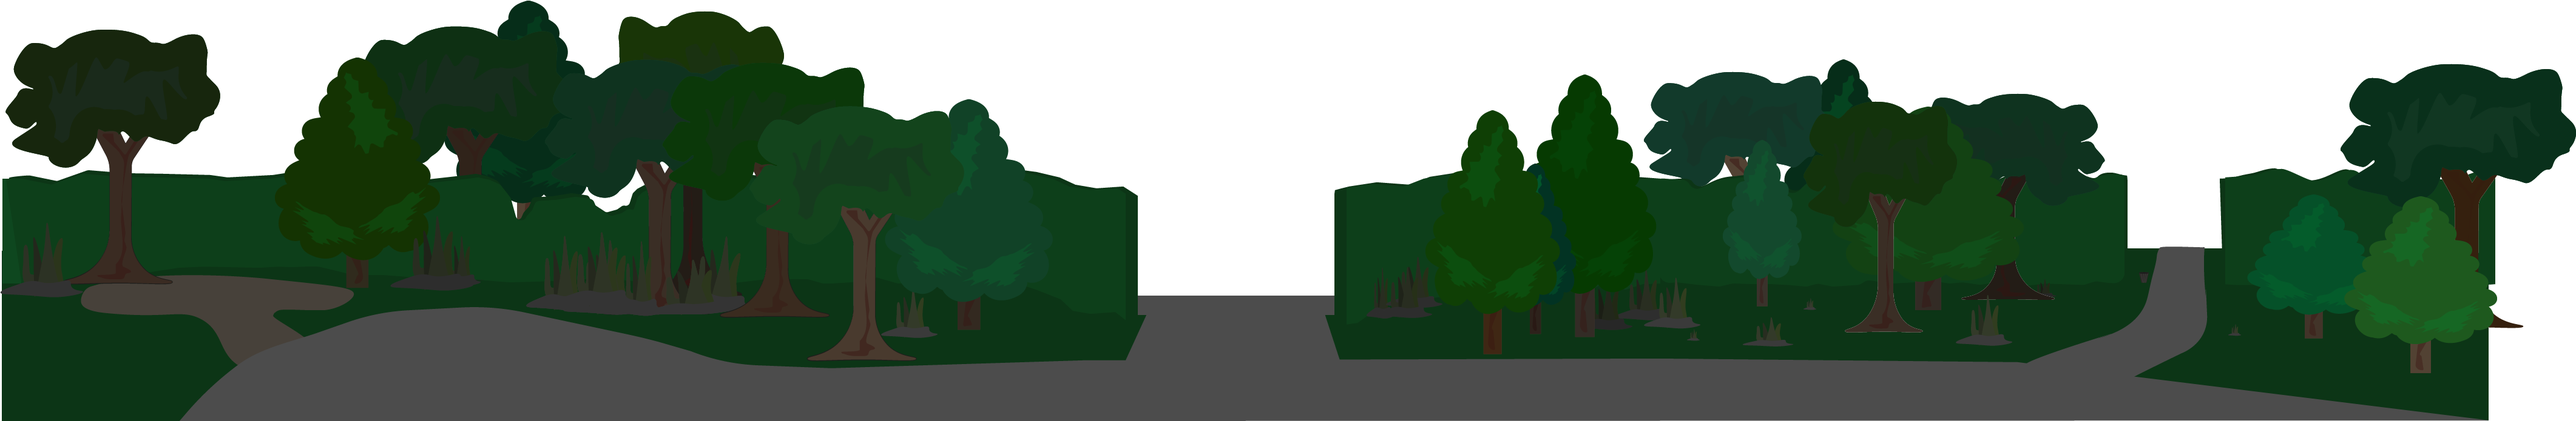
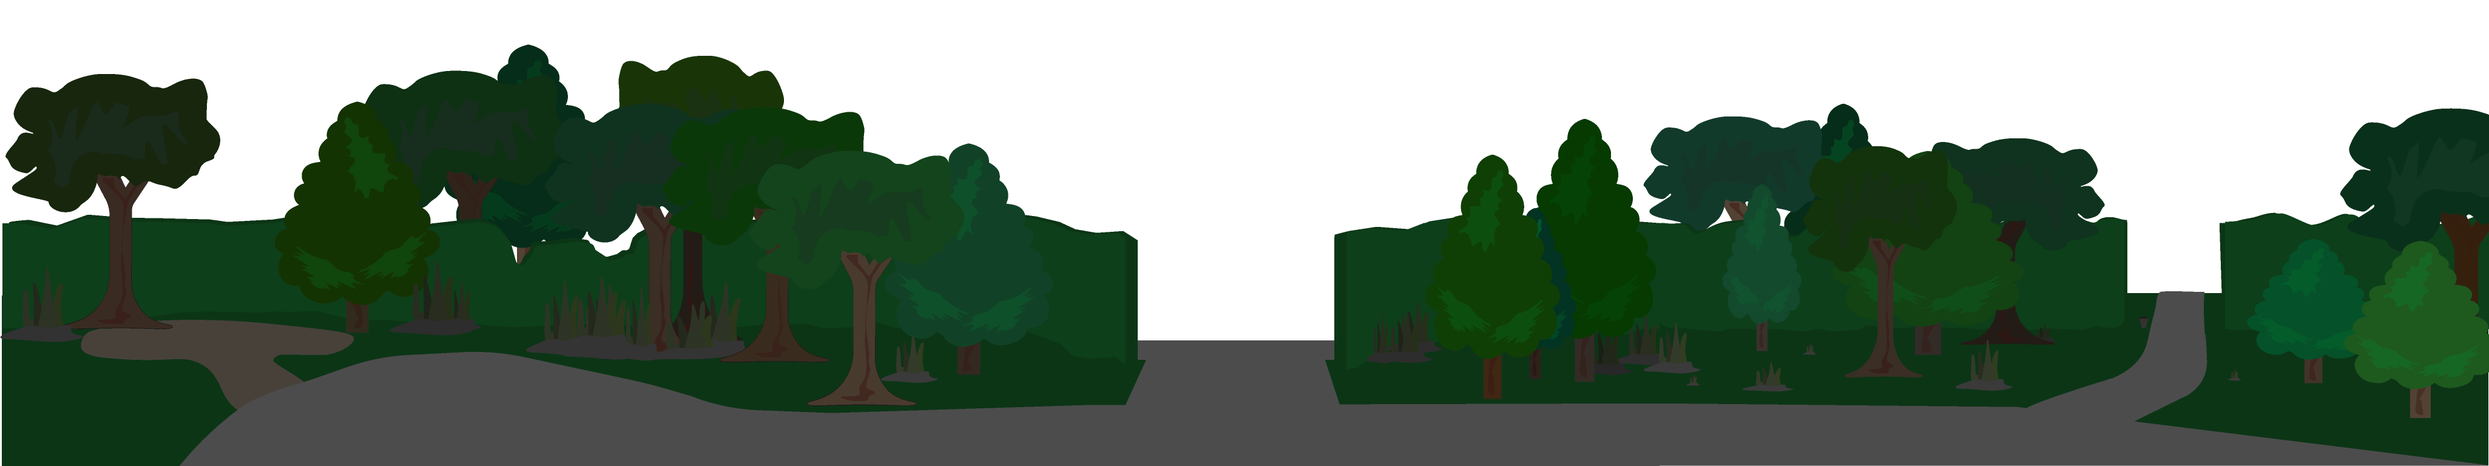
image implementation correction

diff --git a/src/sketch.js b/src/sketch.js
@@ -98,10 +98,10 @@ function setupGame () {
     let city = new InteractiveObject(773, 6, 3327, 703, cityImg);
     park.addChild(city);
 
-    let street = new InteractiveObject(1721, 320, 3327, 703, streetImg);
+    let street = new InteractiveObject(1721, 320, 2002, 289, streetImg);
     park.addChild(street);
 
-    let trees = new InteractiveObject(-1, 73, 4245, 695, treesImg);
+    let trees = new InteractiveObject(-1, 74, 4103, 695, treesImg);
     park.addChild(trees);
 
     let coffeeHouseForegnd = new InteractiveObject(0, 0, 3327, 703, coffeeHouseForegndImg);
@@ -123,13 +123,9 @@ function setupGame () {
     park.addChild(coffeeHouseLink);
     world.addChild(coffeeHouseLink);
 
-    let demoLink_park = new DemoLink();
-    park.addChild(demoLink_park);
-    world.addChild(demoLink_park);
-
-    let demoLink_bar = new DemoLink();
-    bar.addChild(demoLink_bar);
-    world.addChild(demoLink_bar);
+    let demoLink = new DemoLink();
+    park.addChild(demoLink);
+    world.addChild(demoLink);
 
     let kioskLink = new KioskLink();
     park.addChild(kioskLink);
@@ -147,9 +143,9 @@ function setupGame () {
     coffeeHouse.addChild(parkLink_coffeeHouse);
     world.addChild(parkLink_coffeeHouse);
 
-    let door_coffeeHouse = new Door();
-    coffeeHouse.addChild(door_coffeeHouse);
-    world.addChild(door_coffeeHouse);
+    // let door_coffeeHouse = new Door();
+    // coffeeHouse.addChild(door_coffeeHouse);
+    // world.addChild(door_coffeeHouse);
 
     let demoSign_demo = new DemoSign();
     demo.addChild(demoSign_demo);
@@ -159,8 +155,9 @@ function setupGame () {
     demo.addChild(demoSign_counterdemo);
     world.addChild(demoSign_counterdemo);
 
-    let flyerBox_coffeeHouse = new FlyerBox();
-    coffeeHouse.addChild()
+    // let flyerBox_coffeeHouse = new FlyerBox();
+    // coffeeHouse.addChild(flyerBox_coffeeHouse);
+    // world.addChild(flyerBox_coffeeHouse);
 
     let flyer = new Flyer();
     coffeeHouse.addChild(flyer);

diff --git a/src/interactiveObject.js b/src/interactiveObject.js
@@ -20,7 +20,7 @@ export default class InteractiveObject extends DisplayObject {
   draw() {
     if (this.backgnd != undefined) {
       // console.log(this.backgnd);
-      image(this.backgnd, this.x, this.y, this.width, this.height);
+      image(this.backgnd, 0, 0, this.width, this.height);
     }
   }
 
